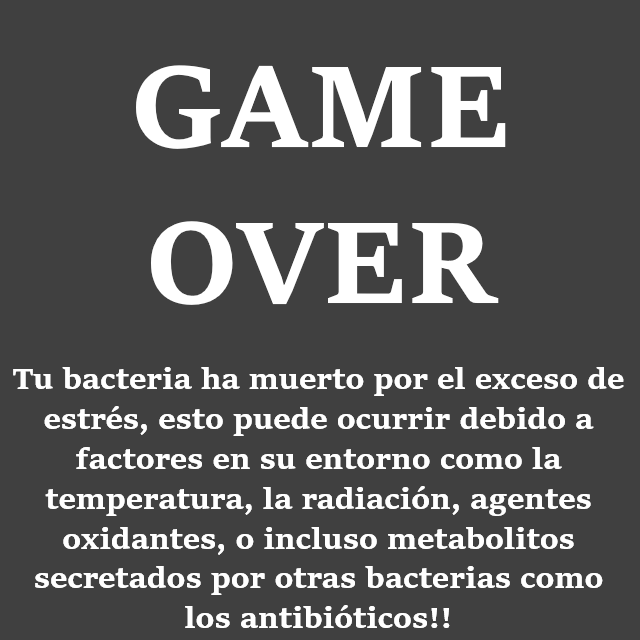
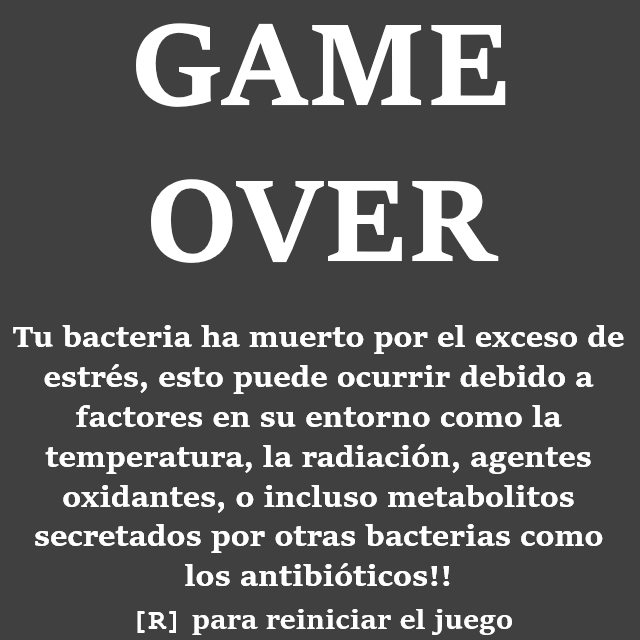
Updated GameOver and GameWin Screens

Changed region(s): [[0.0312, 0.2812, 0.9688, 1.0], [0.1875, 0.0312, 0.8125, 0.25]]

diff --git a/bacterion/Assets.java b/bacterion/Assets.java
@@ -111,7 +111,7 @@ public class Assets {
         gameOver = ImageLoader.loadImage("/images/game_over.png");
         gameWin = ImageLoader.loadImage("/images/game_win.png");
         backgroundStartScreen = ImageLoader.loadImage("/startscreen/background.png");
-        backgroundStartScreenTuto = ImageLoader.loadImage("/startscreen/background_tuto.png");
+        backgroundStartScreenTuto = ImageLoader.loadImage("/startscreen/background_tuto_02.png");
         titleStartScreen = ImageLoader.loadImage("/startscreen/bacterionTitle.png");
         jugarStartScreen = ImageLoader.loadImage("/startscreen/jugar.png");
         eligeBactStartScreen = ImageLoader.loadImage("/startscreen/elegirBacteria.png");
